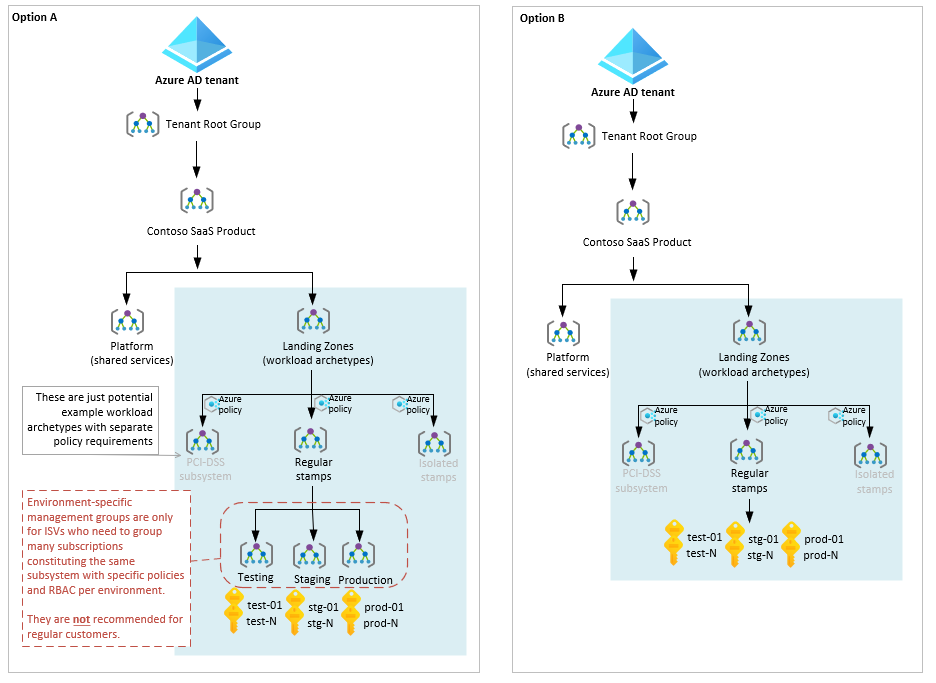
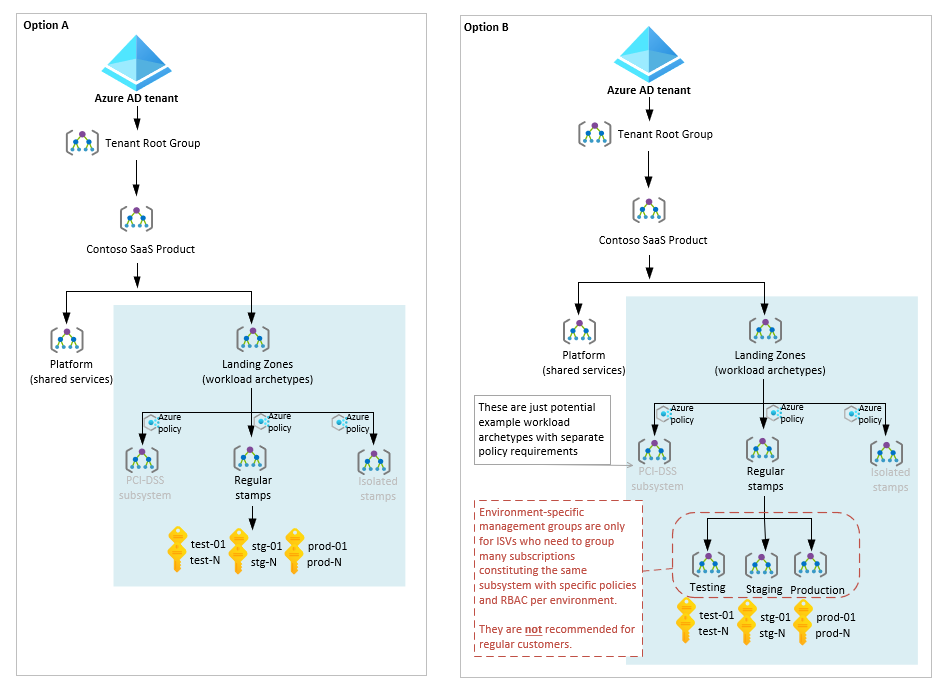
Updated isv-landing-zone-example diagrams & fixes

diff --git a/docs/ready/landing-zone/isv-landing-zone.md b/docs/ready/landing-zone/isv-landing-zone.md
@@ -149,7 +149,7 @@ If the answers to both of these questions is yes, then you should have one top-l
 However, if each of the SaaS products is managed and operated by completely separate platform teams, consider creating separate top-level management groups for each of the SaaS products, such as **SaaS Product-01 Ops** and **SaaS Product-02 Ops**. Each product's top-level management group has its own landing zone management group hierarchy, which includes the elements described later in this article. This approach is similar to the [testing approach for enterprise-scale landing zones](../enterprise-scale/testing-approach.md#example-scenarios-and-outcomes), but instead of *Contoso* and *Contoso-Canary*, as a SaaS ISV with completely separate products with their own individual platforms, you would have *Contoso-SaaS-Product-01*, *Contoso-SaaS-Product-02*, and *Contoso-SaaS-Product-03*.
 
 > [!TIP]
-> It's uncommon for one ISV to have more than just a few top-level management groups. Often, several products can be combined together due to similiarities in how they're managed and operated.
+> It's uncommon for one ISV to have more than just a few top-level management groups. Often, several products can be combined together due to similarities in how they're managed and operated.
 
 ![Diagram that shows top-level management group options with a single management group and separate management groups for each of the SaaS products](./media/isv-landing-zone/isv-top-level-mg.png)
 
@@ -182,9 +182,9 @@ Most Azure customers use separate Azure subscriptions for each application team 
 
 However, SaaS ISVs can have different requirements to most other Azure customers. SaaS ISVs might need to group multiple subscriptions that represent *shards* or *partitions* of the same subsystem, application, or workload. If you have specific requirements to have policies or role assignments applied to these groups of subscriptions in way that's noticeably different from the archetype management group, you can consider creating child management groups that correspond to each environment under the archetype management group.
 
-The following diagram illustrates two potential options. Option A includes environment-specific management groups under the **Regular stamps** management group. Each environment-specific management group contains mulitple subscriptions. Over time, the ISV scales their Azure resources in each environment across an increasing number of subscriptions with a common set of policies and role assignments. Option B represents a simpler scenario, where you use separate subscriptions for each environment but don't create environment-specific management groups.
+The following diagram illustrates two potential options. Option A represents a simpler scenario, where regular customers use separate subscriptions for each environment but don't create environment-specific management groups. Option B shows a SaaS ISV scenario with environment-specific management groups under the **Regular stamps** management group. Each environment-specific management group contains multiple subscriptions. Over time, the ISV scales their Azure resources in each environment across an increasing number of subscriptions with a common set of policies and role assignments.
 
-![Diagram that shows two management group hierarchies. Option A includes an environment-specific management group level for SaaS ISVs who need to group many subscriptions of the same subsystem.](./media/isv-landing-zone/isv-landing-zones-mg.png)
+![Diagram that shows two management group hierarchies. Option B includes an environment-specific management group level for SaaS ISVs who need to group many subscriptions of the same subsystem.](./media/isv-landing-zone/isv-landing-zones-mg.png)
 
 ### Decommissioned and Sandboxes management groups
 
@@ -197,7 +197,7 @@ The **Sandboxes** management group usually contains Azure subscriptions that are
 > [!IMPORTANT]
 > Subscriptions in the **Sandboxes** management group should not have direct connectivity to the landing zone subscriptions. Avoid connecting sandbox subscriptions to production workloads, and any non-production environments that should mirror production environments.
 
-The following diagram illustrates two potential options. Option A includes the **Decommissioned** and **Sandbox** management groups, while option B does not.
+The following diagram illustrates two potential options. Option A does not includes the **Decommissioned** and **Sandbox** management groups, while option B does.
 
 ![Diagram that shows the optional Decommissioned and Sandboxes management groups on the same level as the Platform and Landing Zones management groups.](./media/isv-landing-zone/isv-decommissioned-mg.png)
 
@@ -220,13 +220,13 @@ The following diagram shows an example SaaS ISV Azure landing zones hierarchy wi
 
 The following diagram shows an example SaaS ISV Azure landing zones hierarchy with the following characteristics:
 
-- The landing zone complete platform-level separation between different SaaS products (**Contoso SaaS Product 01** and **Contoso SaaS Product 02**), each with their own platform.
-- The ISV decided to [use multiple platform management groups](#platform-management-group). <!-- TODO -->
-- There is only one [landing zone management group](#landing-zones-management-group). <!-- TODO maybe add another? -->
-- The landing zone includes [environment-specific management groups](#landing-zones-management-group) for organizing the subscriptions and assigning different policies and role assigments.
+- The landing zone with complete platform-level separation between a few different SaaS products (**Contoso SaaS Product 01** and **Contoso SaaS Product 02**), each with their own platform.
+- The ISV decided to keep all of their platform components in a single Azure subscription, instead of [splitting them into multiple platform management groups](#platform-management-group).
+- There are two [landing zone management groups](#landing-zones-management-group) (**Regular stamps** and **PCI-DSS**).
+- The landing zone includes [environment-specific management groups](#landing-zones-management-group) for organizing the subscriptions and assigning different policies and role assignments.
 - The ISV decided to include the optional management groups for [decommissioned and sandbox subscriptions](#decommissioned-and-sandboxes-management-groups).
 
-![Diagram that shows an example Azure landing zone hierarchy for an ISV. Most of the components from this article are included.](./media/isv-landing-zone/isv-landing-zone-example1.png)
+![Diagram that shows an example Azure landing zone hierarchy for an ISV. Most of the components from this article are included.](./media/isv-landing-zone/isv-landing-zone-example2.png)
 
 ---
 
